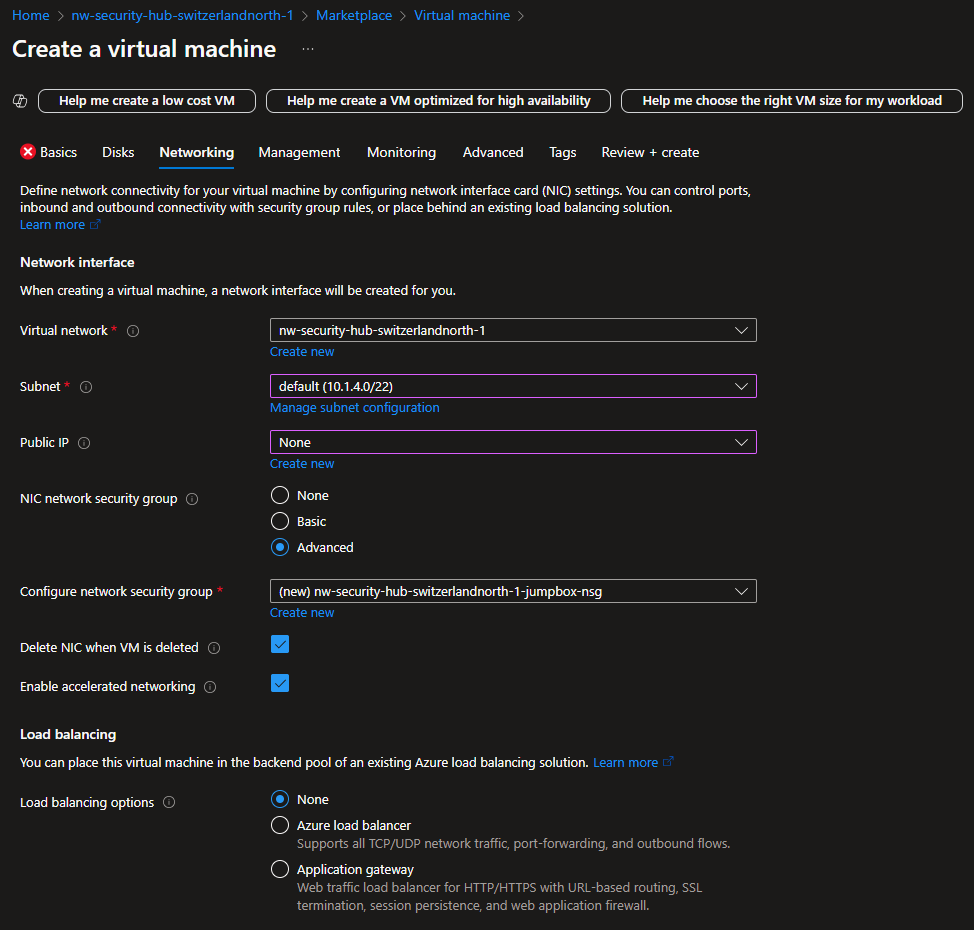
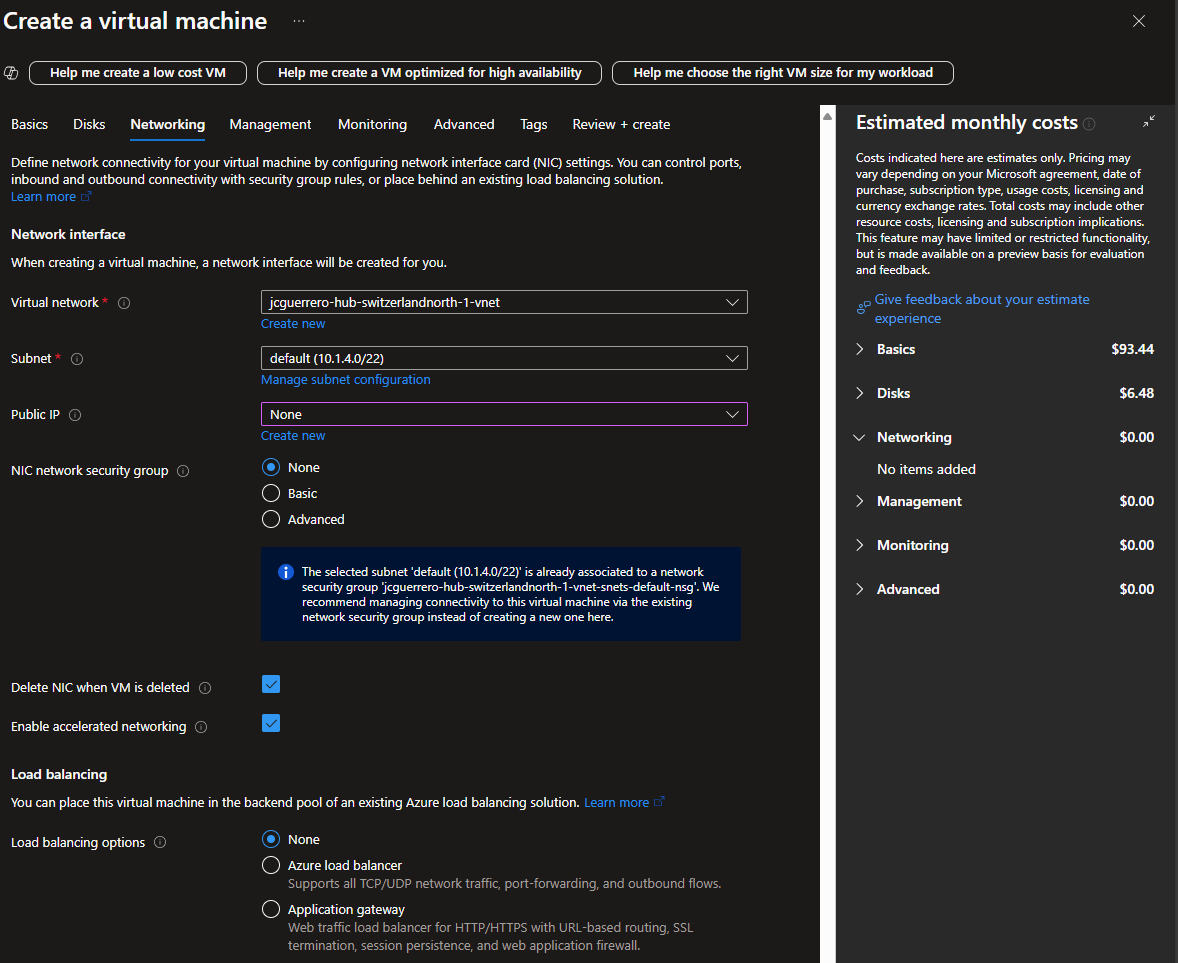
changes

diff --git a/docs/tutorial/03/hub/README.md b/docs/tutorial/03/hub/README.md
@@ -14,25 +14,25 @@
 
 #### CSV
 
-| NAME                                                  | TYPE                       | LOCATION          |
-| ----------------------------------------------------- | -------------------------- | ----------------- |
-| {prefix}-hub-{location}-{id}-rt                       | Route table                | Switzerland North |
-| {prefix}-hub-{location}-{id}-vm-jump-1                | Virtual machine            | Switzerland North |
-| {prefix}-hub-{location}-{id}-vm-jump-133-78550576     | Network Interface          | Switzerland North |
-| {prefix}-hub-{location}-{id}-vm-jump-asg              | Application security group | Switzerland North |
-| {prefix}-hub-{location}-{id}-vm-jumpOS\_{hash}        | Disk                       | Switzerland North |
-| {prefix}-hub-{location}-{id}-vnet                     | Virtual network            | Switzerland North |
-| {prefix}-hub-{location}-{id}-vnet-bas                 | Bastion                    | Switzerland North |
-| {prefix}-hub-{location}-{id}-vnet-bas-pip             | Public IP address          | Switzerland North |
-| {prefix}-hub-{location}-{id}-vnet-fw                  | Firewall                   | Switzerland North |
-| {prefix}-hub-{location}-{id}-vnet-fw-pip              | Public IP address          | Switzerland North |
-| {prefix}-hub-{location}-{id}-vnet-snets-default-nsg   | Network security group     | Switzerland North |
-| {short-prefix}{short-location}1st                     | Storage account            | Switzerland North |
-| {short-prefix}{short-location}1st-\_{guid}            | Event Grid System Topic    | Switzerland North |
-| {short-prefix}{short-location}1st-pep                 | Private endpoint           | Switzerland North |
-| {short-prefix}{short-location}1st-pep-asg             | Application security group | Switzerland North |
-| {short-prefix}{short-location}1st-pep.nic.{guid}      | Network Interface          | Switzerland North |
-| privatelink.blob.core.windows.net                     | Private DNS zone           | Global            |
+| NAME                                                | TYPE                       | LOCATION          |
+| --------------------------------------------------- | -------------------------- | ----------------- |
+| {prefix}-hub-{location}-{id}-rt                     | Route table                | Switzerland North |
+| {prefix}-hub-{location}-{id}-vm-jump-1              | Virtual machine            | Switzerland North |
+| {prefix}-hub-{location}-{id}-vm-jump-133-78550576   | Network Interface          | Switzerland North |
+| {prefix}-hub-{location}-{id}-vm-jump-asg            | Application security group | Switzerland North |
+| {prefix}-hub-{location}-{id}-vm-jumpOS\_{hash}      | Disk                       | Switzerland North |
+| {prefix}-hub-{location}-{id}-vnet                   | Virtual network            | Switzerland North |
+| {prefix}-hub-{location}-{id}-vnet-bas               | Bastion                    | Switzerland North |
+| {prefix}-hub-{location}-{id}-vnet-bas-pip           | Public IP address          | Switzerland North |
+| {prefix}-hub-{location}-{id}-vnet-fw                | Firewall                   | Switzerland North |
+| {prefix}-hub-{location}-{id}-vnet-fw-pip            | Public IP address          | Switzerland North |
+| {prefix}-hub-{location}-{id}-vnet-snets-default-nsg | Network security group     | Switzerland North |
+| {short-prefix}{short-location}1st                   | Storage account            | Switzerland North |
+| {short-prefix}{short-location}1st-\_{guid}          | Event Grid System Topic    | Switzerland North |
+| {short-prefix}{short-location}1st-pep               | Private endpoint           | Switzerland North |
+| {short-prefix}{short-location}1st-pep-asg           | Application security group | Switzerland North |
+| {short-prefix}{short-location}1st-pep.nic.{guid}    | Network Interface          | Switzerland North |
+| privatelink.blob.core.windows.net                   | Private DNS zone           | Global            |
 
 #### Template
 

diff --git a/docs/tutorial/02/hub/vm.md b/docs/tutorial/02/hub/vm.md
@@ -50,6 +50,10 @@ Look for the `Virtual machine` service Azure Portal's Market place.
 
 Create a `username` and `password` you'll remember. If you forget it, you might need to completely recreate the VM.
 
+###### Inbound port rules
+
+- **Public inbound ports**: _"None"_
+
 ##### Disks
 
 ![Disks](../../../../assets/img/azure/solution/vnets/hub/vm/create/disks.png)
@@ -68,13 +72,13 @@ We'll just go ahead and put it in our `default` subnet (1 IP address down, 1,023
 - **Public IP**: _"None"_ .- **VERY IMPORTANT**. We'll access via Bastion's Public IP address
 - **NIC network security group**: **"None"**.- Having NSG attached on the `snet` level, as well as the VM's NIC's level can cause issues. So we'll stick to the `default` subnet's NSG.
 
-- [x] **Delete NIC when VM is deleted**: Checked
-- **Subnet**: `default`. Note that the other 2 **delegated subnets**, are listed, but not available for selection.
-
-> [!WARNING]
-> we recommend that you associate a network security group to a **subnet**, or a **network interface**, but **not both**.
+> [!CRITICAL]
+> We recommend that you associate a network security group to a **subnet**, or a **network interface**, but **not both**.
 
 _"Unless you have a specific reason to, since rules in a network security group associated to a subnet can conflict with rules in a network security group associated to a network interface, you can have unexpected communication problems that require troubleshooting."_
+
+- [x] **Delete NIC when VM is deleted**: Checked
+- **Subnet**: `default`. Note that the other 2 **delegated subnets**, are listed, but not available for selection.
 
 ![Networking](../../../../assets/img/azure/solution/vnets/hub/vm/create/subnet.png)
 
